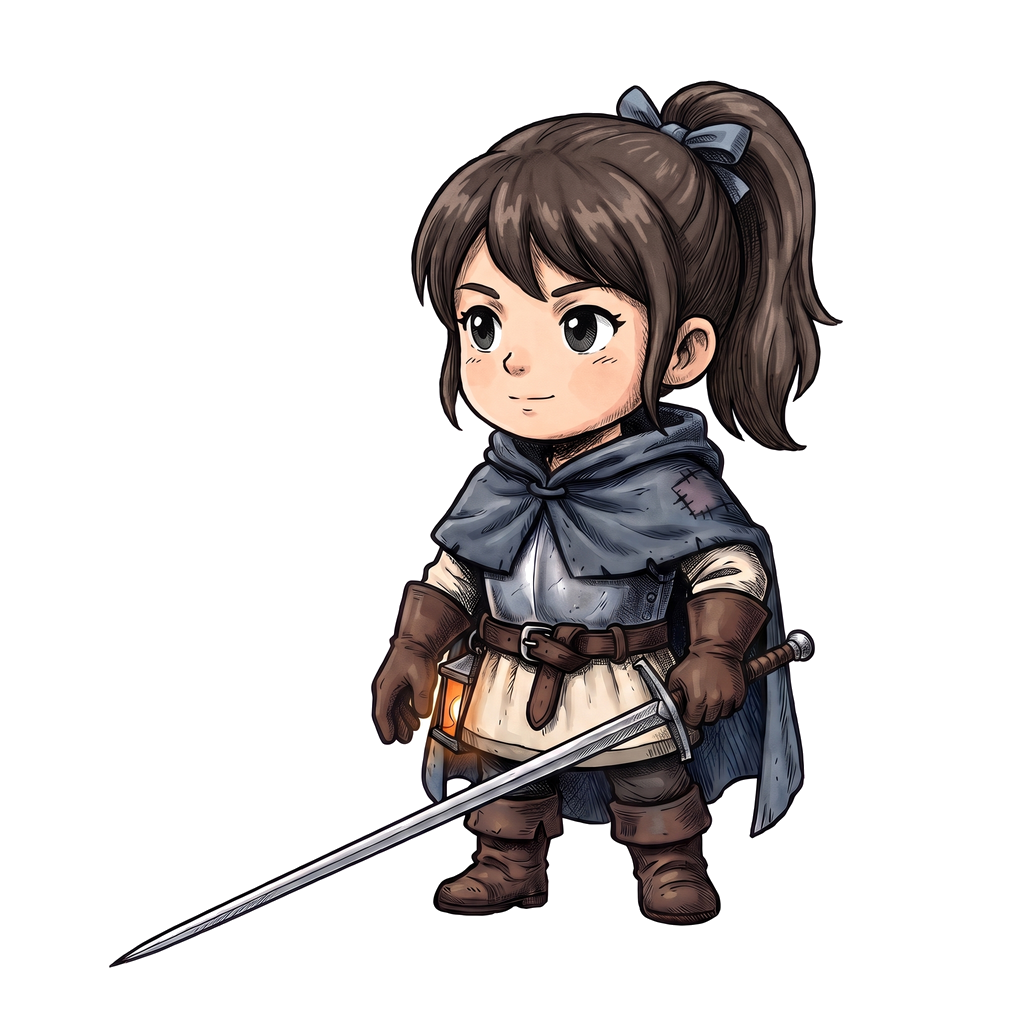
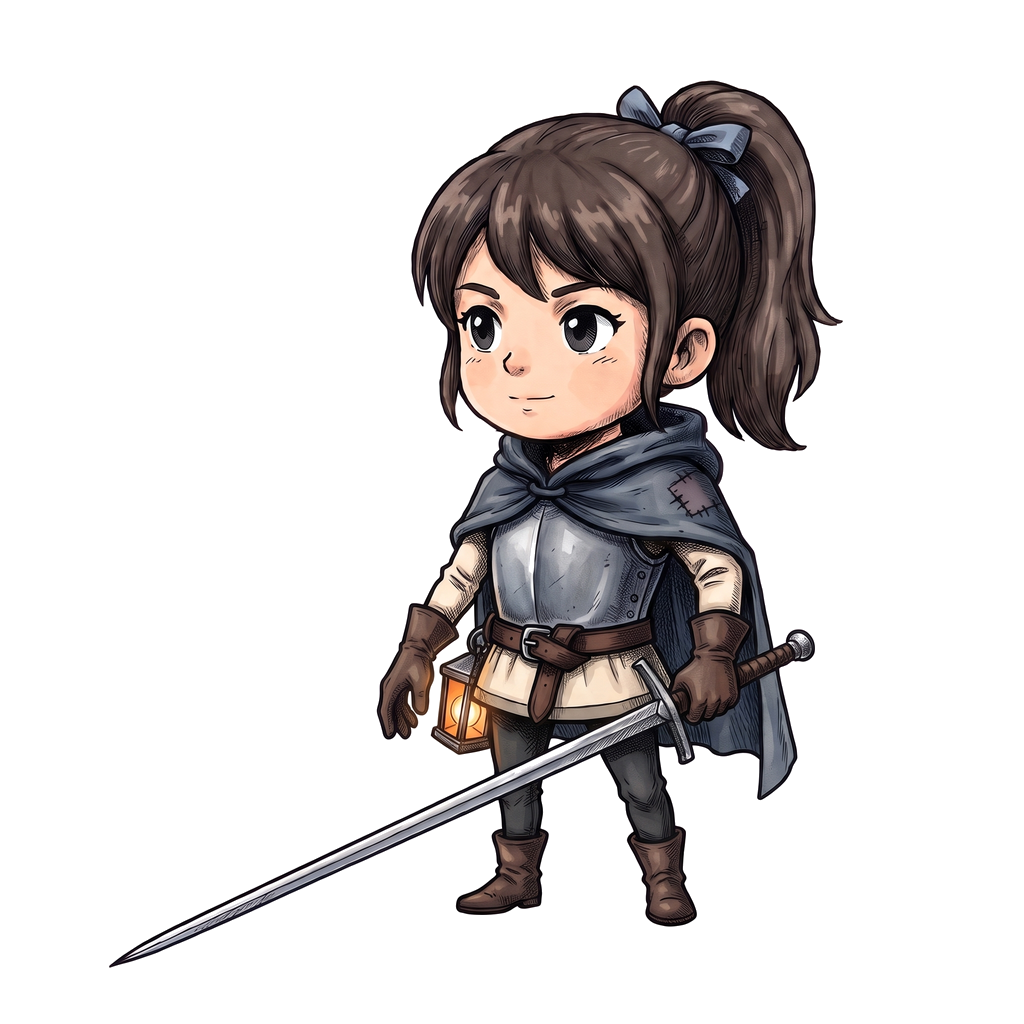
남은 변경 정리
Claude-Session: https://claude.ai/code/session_019ctizXkAJK8e2QXDcDEkS2

diff --git a/index.html b/index.html
@@ -288,7 +288,7 @@ const HEADS = [
 //   lanternPx: 허리 등불의 한가운데.  footPx: 두 발 사이의 x.  figurePx: 발끝에서 머리끝까지의 높이(화면 키 190에 맞춘다)
 const ARMORS = [
   { id:'basic', name:'기본', how:'처음부터', img:{ m:'art/knight/기본-남.png', f:'art/knight/기본-여.png' },
-    at:{ m:{ lanternPx:[454, 705], footPx:583, figurePx:836 }, f:{ lanternPx:[454, 705], footPx:583, figurePx:860 } }, ok:() => true },
+    at:{ m:{ lanternPx:[459, 711], footPx:576, figurePx:819 }, f:{ lanternPx:[459, 711], footPx:576, figurePx:845 } }, ok:() => true },
   { id:'armor2', name:'준비 중인 갑옷', how:'1구역 보스 처치', img:null, ok:() => false },
   { id:'armor3', name:'준비 중인 갑옷', how:'업적 · 이벤트', img:null, ok:() => false },
 ];
